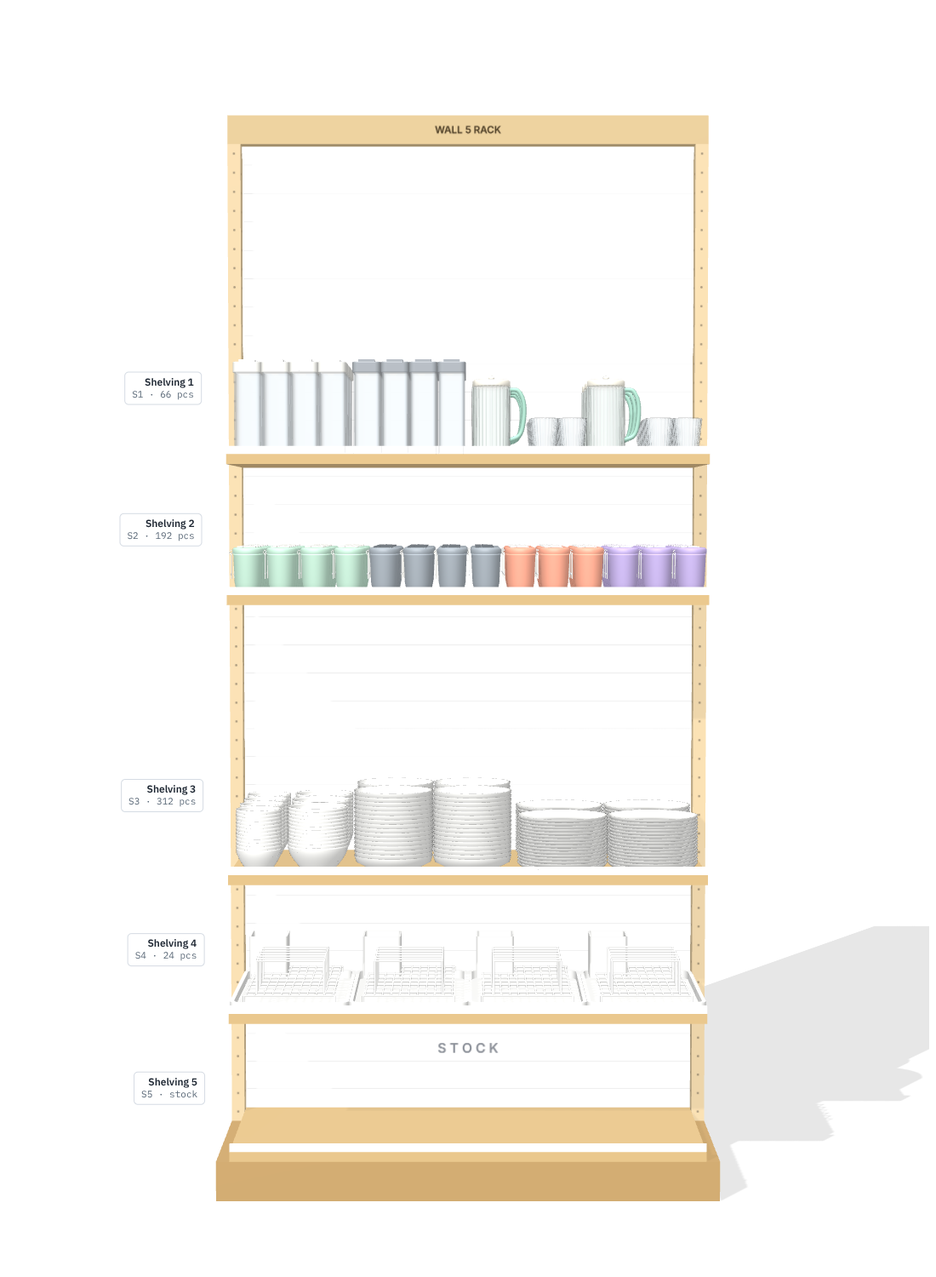
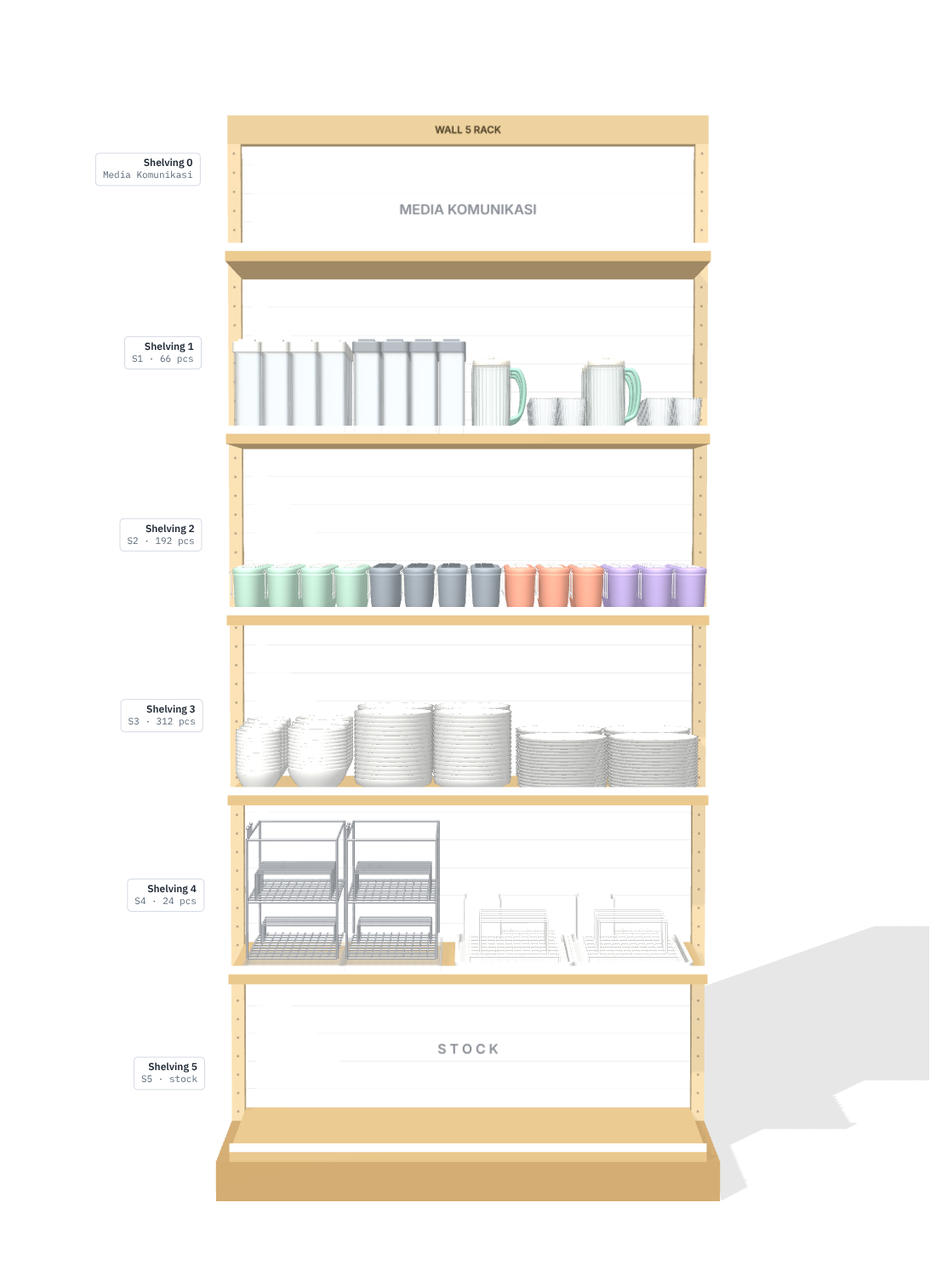
Racking preview: 6 shelving (0-5), Shelving 0 for Media Komunikasi, 45 cm pitch
Claude-Session: https://claude.ai/code/session_01AuG4t5Kp5Qon2apC5pnvrz

diff --git a/renders/makan-minum/preview_racking.html b/renders/makan-minum/preview_racking.html
@@ -81,7 +81,7 @@ body.shot .grid{display:block}body.shot .stagebox{border:0;border-radius:0}body.
     <div>
       <div class="eyebrow">Makan &amp; Minum · Dept Homeware</div>
       <h1>Preview racking Summary Accs</h1>
-      <p>Setiap SKU diletakkan di Wall sesuai posisi shelving dan qty display dari sheet. Pallet dan Dumbin belum dimasukkan. Ukuran produk dari ruparupa, ukuran rak dari layout Planogram Generator.</p>
+      <p>Setiap SKU diletakkan di Wall 6 shelving (0–5) sesuai posisi dan qty display dari sheet. Shelving 0 dikosongkan untuk Media Komunikasi. Pallet dan Dumbin belum dimasukkan. Ukuran produk dari ruparupa, ukuran rak dari layout Planogram Generator.</p>
     </div>
     <div id="tabs" role="tablist" aria-label="Pilih fixture"></div>
   </div>
@@ -303,7 +303,7 @@ function makeSku(cfg) {
 }
 
 /* ===== Preview racking: susun SKU di fixture (logika Planogram Generator) ===== */
-const DATA = {"skus":{"10587677":{"nm":"PITCHER TAVIA WHITE 1L","pr":"P1","code":"S1","cfg":{"model":"tavia","lid":"#e8e8e3"},"stack":null,"dim":null},"10587678":{"nm":"PITCHER TAVIA GRAY 1L","pr":"P1","code":"S1","cfg":{"model":"tavia","lid":"#9da3a9"},"stack":null,"dim":null},"10566440":{"nm":"PITCHER SET HALLI 1L W/4 GLASS 220ML(5)","pr":"P1","code":"S1","cfg":{"model":"halli"},"stack":null,"dim":null},"10560521":{"nm":"VACUUM FLASK KIRBY GREEN 420ML","pr":"P1","code":"S2","cfg":{"model":"kirby","body":"#b9dcc8","lid":"#b9dcc8","tab":"#f3f1e6"},"stack":null,"dim":null},"10560523":{"nm":"VACUUM FLASK KIRBY GREY 420ML","pr":"P1","code":"S2","cfg":{"model":"kirby","body":"#9aa3ab","lid":"#9aa3ab","tab":"#5f666d"},"stack":null,"dim":null},"10560524":{"nm":"VACUUM FLASK KIRBY PEACH 420ML","pr":"P1","code":"S2","cfg":{"model":"kirby","body":"#f4a58b","lid":"#f4a58b","tab":"#f6f3ec"},"stack":null,"dim":null},"10560522":{"nm":"VACUUM FLASK KIRBY PURPLE 420ML","pr":"P1","code":"S2","cfg":{"model":"kirby","body":"#bba9dc","lid":"#bba9dc","tab":"#e9e2f5"},"stack":null,"dim":null},"10554839":{"nm":"BOWL SHINE WHITE 11.5CM","pr":"P1","code":"S3","cfg":{"model":"bowl","d":11.5,"h":6.0,"color":"#f7f7f4"},"stack":{"inc":0.9,"max":12},"dim":null},"10554840":{"nm":"BOWL SHINE WHITE 15.2CM","pr":"P1","code":"S3","cfg":{"model":"bowl","d":15.2,"h":6.5,"color":"#f7f7f4"},"stack":{"inc":0.9,"max":12},"dim":null},"10554842":{"nm":"SOUP PLATE SHINE WHITE 20CM","pr":"P1","code":"S3","cfg":{"model":"plate","d":20,"h":3.7,"deep":true,"color":"#f7f7f4"},"stack":{"inc":1.1,"max":16},"dim":null},"10581181":{"nm":"DINNER PLATE SHINE WHITE 23CM","pr":"P1","code":"S3","cfg":{"model":"plate","d":23,"h":1.7,"color":"#f7f7f4"},"stack":{"inc":0.8,"max":16},"dim":null},"10137002":{"nm":"STARLIGHT DISH RACK 2 TIER TRANSPARENT","pr":"P1","code":"S4","cfg":{"model":"starlight"},"stack":null,"dim":null},"10612063":{"nm":"NEW WILLARD EXTENDABLE DISH RACK WHITE","pr":"P1","code":"S4","cfg":{"model":"willard"},"stack":null,"dim":null},"10631044":{"nm":"THERMAL BOTTLE KAY GREY 880ML","pr":"P2","code":"S1","cfg":{"model":"kay","color":"#b9b6ad"},"stack":null,"dim":null},"10631045":{"nm":"THERMAL BOTTLE KAY BLUE 880ML","pr":"P2","code":"S1","cfg":{"model":"kay","color":"#b7cde2"},"stack":null,"dim":null},"10631046":{"nm":"THERMAL BOTTLE KAY YELLOW 880ML","pr":"P2","code":"S1","cfg":{"model":"kay","color":"#f3e39b"},"stack":null,"dim":null},"10631047":{"nm":"THERMAL BOTTLE KAY PINK 880ML","pr":"P2","code":"S1","cfg":{"model":"kay","color":"#e6217f"},"stack":null,"dim":null},"10542394":{"nm":"VACUUM FLASK DARYA BLACK 500ML","pr":"P2","code":"S2","cfg":{"model":"darya","color":"#222224"},"stack":null,"dim":null},"10542395":{"nm":"VACUUM FLASK DARYA GREY 500ML","pr":"P2","code":"S2","cfg":{"model":"darya","color":"#a8adb3"},"stack":null,"dim":null},"10542396":{"nm":"VACUUM FLASK DARYA PINK 500ML","pr":"P2","code":"S2","cfg":{"model":"darya","color":"#f0cbd7"},"stack":null,"dim":null},"10568378":{"nm":"BENNET DUO FLIP CANISTER SET OF 3 700ML","pr":"P2","code":"S3","cfg":{"model":"jars","n":3,"d":8,"h":14,"L":25,"lidH":2.4,"style":"flip","lidColor":"#f4f4f2"},"stack":null,"dim":null},"10568377":{"nm":"BENNET SPIN CANISTER SET OF 3 500ML","pr":"P2","code":"S3","cfg":{"model":"jars","n":3,"d":8,"h":13.5,"L":25,"lidH":2.4,"style":"spin","lidColor":"#9edbd0"},"stack":null,"dim":null},"10565042":{"nm":"LILY GLASS JAR SET OF 3 450ML","pr":"P2","code":"S3","cfg":{"model":"jars","n":3,"d":10.4,"h":12.3,"L":32,"lidH":2.2,"style":"glass","barrel":true},"stack":null,"dim":null},"10519116":{"nm":"WILMA GLASS JAR SET OF 3","pr":"P2","code":"S4","cfg":{"model":"jars","n":3,"d":12,"h":12.2,"L":36.2,"lidH":2.2,"style":"wood","barrel":true},"stack":null,"dim":null},"10100885":{"nm":"STAR STORAGE JAR SET 3","pr":"P2","code":"S4","cfg":{"model":"jars","n":3,"d":8.8,"h":23.5,"L":27.5,"lidH":3.6,"style":"handle","lidColor":"#f2f2f0","band":"#a9b6c4"},"stack":null,"dim":null},"10497060":{"nm":"WILEY GLASS JAR SET OF 3","pr":"P2","code":"S4","cfg":{"model":"jars","n":3,"d":10.2,"h":12,"L":31,"lidH":2.2,"style":"wood","barrel":true},"stack":null,"dim":null}},"fixtures":[{"id":"wall-p1","kind":"wall","tab":"Wall 1 · P1","title":"Wall ke-1 · SKU prioritas P1","size":{"w":120,"d":50,"h":270},"zones":[35,35,70,35,35],"label":"WALL 5 RACK","shelves":[{"code":"S1","items":[{"k":"10587677","qd":30},{"k":"10587678","qd":30},{"k":"10566440","qd":6}]},{"code":"S2","items":[{"k":"10560521","qd":48},{"k":"10560523","qd":48},{"k":"10560524","qd":48},{"k":"10560522","qd":48}]},{"code":"S3","items":[{"k":"10554839","qd":96},{"k":"10554840","qd":72},{"k":"10554842","qd":72},{"k":"10581181","qd":72}]},{"code":"S4","items":[{"k":"10137002","qd":12},{"k":"10612063","qd":12}]},{"code":"S5","items":[]}]},{"id":"wall-p2","kind":"wall","tab":"Wall 2 · P2","title":"Wall ke-2 · SKU prioritas P2","size":{"w":120,"d":50,"h":270},"zones":[35,35,70,35,35],"label":"WALL 5 RACK","shelves":[{"code":"S1","items":[{"k":"10631044","qd":24},{"k":"10631045","qd":24},{"k":"10631046","qd":24},{"k":"10631047","qd":24}]},{"code":"S2","items":[{"k":"10542394","qd":48},{"k":"10542395","qd":48},{"k":"10542396","qd":48}]},{"code":"S3","items":[{"k":"10568378","qd":12},{"k":"10568377","qd":12},{"k":"10565042","qd":12}]},{"code":"S4","items":[{"k":"10519116","qd":12},{"k":"10100885","qd":12},{"k":"10497060","qd":12}]},{"code":"S5","items":[]}]}]};
+const DATA = {"skus":{"10587677":{"nm":"PITCHER TAVIA WHITE 1L","pr":"P1","code":"S1","cfg":{"model":"tavia","lid":"#e8e8e3"},"stack":null,"dim":null},"10587678":{"nm":"PITCHER TAVIA GRAY 1L","pr":"P1","code":"S1","cfg":{"model":"tavia","lid":"#9da3a9"},"stack":null,"dim":null},"10566440":{"nm":"PITCHER SET HALLI 1L W/4 GLASS 220ML(5)","pr":"P1","code":"S1","cfg":{"model":"halli"},"stack":null,"dim":null},"10560521":{"nm":"VACUUM FLASK KIRBY GREEN 420ML","pr":"P1","code":"S2","cfg":{"model":"kirby","body":"#b9dcc8","lid":"#b9dcc8","tab":"#f3f1e6"},"stack":null,"dim":null},"10560523":{"nm":"VACUUM FLASK KIRBY GREY 420ML","pr":"P1","code":"S2","cfg":{"model":"kirby","body":"#9aa3ab","lid":"#9aa3ab","tab":"#5f666d"},"stack":null,"dim":null},"10560524":{"nm":"VACUUM FLASK KIRBY PEACH 420ML","pr":"P1","code":"S2","cfg":{"model":"kirby","body":"#f4a58b","lid":"#f4a58b","tab":"#f6f3ec"},"stack":null,"dim":null},"10560522":{"nm":"VACUUM FLASK KIRBY PURPLE 420ML","pr":"P1","code":"S2","cfg":{"model":"kirby","body":"#bba9dc","lid":"#bba9dc","tab":"#e9e2f5"},"stack":null,"dim":null},"10554839":{"nm":"BOWL SHINE WHITE 11.5CM","pr":"P1","code":"S3","cfg":{"model":"bowl","d":11.5,"h":6.0,"color":"#f7f7f4"},"stack":{"inc":0.9,"max":12},"dim":null},"10554840":{"nm":"BOWL SHINE WHITE 15.2CM","pr":"P1","code":"S3","cfg":{"model":"bowl","d":15.2,"h":6.5,"color":"#f7f7f4"},"stack":{"inc":0.9,"max":12},"dim":null},"10554842":{"nm":"SOUP PLATE SHINE WHITE 20CM","pr":"P1","code":"S3","cfg":{"model":"plate","d":20,"h":3.7,"deep":true,"color":"#f7f7f4"},"stack":{"inc":1.1,"max":16},"dim":null},"10581181":{"nm":"DINNER PLATE SHINE WHITE 23CM","pr":"P1","code":"S3","cfg":{"model":"plate","d":23,"h":1.7,"color":"#f7f7f4"},"stack":{"inc":0.8,"max":16},"dim":null},"10137002":{"nm":"STARLIGHT DISH RACK 2 TIER TRANSPARENT","pr":"P1","code":"S4","cfg":{"model":"starlight"},"stack":null,"dim":null},"10612063":{"nm":"NEW WILLARD EXTENDABLE DISH RACK WHITE","pr":"P1","code":"S4","cfg":{"model":"willard"},"stack":null,"dim":null},"10631044":{"nm":"THERMAL BOTTLE KAY GREY 880ML","pr":"P2","code":"S1","cfg":{"model":"kay","color":"#b9b6ad"},"stack":null,"dim":null},"10631045":{"nm":"THERMAL BOTTLE KAY BLUE 880ML","pr":"P2","code":"S1","cfg":{"model":"kay","color":"#b7cde2"},"stack":null,"dim":null},"10631046":{"nm":"THERMAL BOTTLE KAY YELLOW 880ML","pr":"P2","code":"S1","cfg":{"model":"kay","color":"#f3e39b"},"stack":null,"dim":null},"10631047":{"nm":"THERMAL BOTTLE KAY PINK 880ML","pr":"P2","code":"S1","cfg":{"model":"kay","color":"#e6217f"},"stack":null,"dim":null},"10542394":{"nm":"VACUUM FLASK DARYA BLACK 500ML","pr":"P2","code":"S2","cfg":{"model":"darya","color":"#222224"},"stack":null,"dim":null},"10542395":{"nm":"VACUUM FLASK DARYA GREY 500ML","pr":"P2","code":"S2","cfg":{"model":"darya","color":"#a8adb3"},"stack":null,"dim":null},"10542396":{"nm":"VACUUM FLASK DARYA PINK 500ML","pr":"P2","code":"S2","cfg":{"model":"darya","color":"#f0cbd7"},"stack":null,"dim":null},"10568378":{"nm":"BENNET DUO FLIP CANISTER SET OF 3 700ML","pr":"P2","code":"S3","cfg":{"model":"jars","n":3,"d":8,"h":14,"L":25,"lidH":2.4,"style":"flip","lidColor":"#f4f4f2"},"stack":null,"dim":null},"10568377":{"nm":"BENNET SPIN CANISTER SET OF 3 500ML","pr":"P2","code":"S3","cfg":{"model":"jars","n":3,"d":8,"h":13.5,"L":25,"lidH":2.4,"style":"spin","lidColor":"#9edbd0"},"stack":null,"dim":null},"10565042":{"nm":"LILY GLASS JAR SET OF 3 450ML","pr":"P2","code":"S3","cfg":{"model":"jars","n":3,"d":10.4,"h":12.3,"L":32,"lidH":2.2,"style":"glass","barrel":true},"stack":null,"dim":null},"10519116":{"nm":"WILMA GLASS JAR SET OF 3","pr":"P2","code":"S4","cfg":{"model":"jars","n":3,"d":12,"h":12.2,"L":36.2,"lidH":2.2,"style":"wood","barrel":true},"stack":null,"dim":null},"10100885":{"nm":"STAR STORAGE JAR SET 3","pr":"P2","code":"S4","cfg":{"model":"jars","n":3,"d":8.8,"h":23.5,"L":27.5,"lidH":3.6,"style":"handle","lidColor":"#f2f2f0","band":"#a9b6c4"},"stack":null,"dim":null},"10497060":{"nm":"WILEY GLASS JAR SET OF 3","pr":"P2","code":"S4","cfg":{"model":"jars","n":3,"d":10.2,"h":12,"L":31,"lidH":2.2,"style":"wood","barrel":true},"stack":null,"dim":null}},"fixtures":[{"id":"wall-p1","kind":"wall","tab":"Wall 1 · P1","title":"Wall ke-1 · SKU prioritas P1","size":{"w":120,"d":50,"h":270},"zones":[45,45,45,45,45,45],"label":"WALL 5 RACK","shelves":[{"code":"S0","media":true,"items":[]},{"code":"S1","media":false,"items":[{"k":"10587677","qd":30},{"k":"10587678","qd":30},{"k":"10566440","qd":6}]},{"code":"S2","media":false,"items":[{"k":"10560521","qd":48},{"k":"10560523","qd":48},{"k":"10560524","qd":48},{"k":"10560522","qd":48}]},{"code":"S3","media":false,"items":[{"k":"10554839","qd":96},{"k":"10554840","qd":72},{"k":"10554842","qd":72},{"k":"10581181","qd":72}]},{"code":"S4","media":false,"items":[{"k":"10137002","qd":12},{"k":"10612063","qd":12}]},{"code":"S5","media":false,"items":[]}]},{"id":"wall-p2","kind":"wall","tab":"Wall 2 · P2","title":"Wall ke-2 · SKU prioritas P2","size":{"w":120,"d":50,"h":270},"zones":[45,45,45,45,45,45],"label":"WALL 5 RACK","shelves":[{"code":"S0","media":true,"items":[]},{"code":"S1","media":false,"items":[{"k":"10631044","qd":24},{"k":"10631045","qd":24},{"k":"10631046","qd":24},{"k":"10631047","qd":24}]},{"code":"S2","media":false,"items":[{"k":"10542394","qd":48},{"k":"10542395","qd":48},{"k":"10542396","qd":48}]},{"code":"S3","media":false,"items":[{"k":"10568378","qd":12},{"k":"10568377","qd":12},{"k":"10565042","qd":12}]},{"code":"S4","media":false,"items":[{"k":"10519116","qd":12},{"k":"10100885","qd":12},{"k":"10497060","qd":12}]},{"code":"S5","media":false,"items":[]}]}]};
 setClearMode('lite');
 
 const $ = s => document.querySelector(s);
@@ -386,7 +386,7 @@ function packShelf(sh, W, D, C) {
 /* ---------- membangun fixture ---------- */
 let group = null, cur = 0, labels = [];
 function buildWall(fx, g) {
-  const { w: W, d: D, h: H } = fx.size, UP = 3.4, hs = fx.zones, sum = hs.reduce((a, b) => a + b, 0), topBlank = H - BASE - sum;
+  const { w: W, d: D, h: H } = fx.size, UP = 3.4, hs = fx.zones, sum = hs.reduce((a, b) => a + b, 0);
   g.add(box(W + UP * 2, BASE, D, std(ASH.base), 0, BASE / 2, 0));
   const groove = canvasTex(8, 75, (c, w, h) => { c.fillStyle = '#fff'; c.fillRect(0, 0, w, h); c.fillStyle = 'rgba(0,0,0,.14)'; c.fillRect(0, h - 3, w, 3); }, [1, (H - BASE) / 7.5]);
   g.add(box(W, H - BASE, 1.2, new THREE.MeshStandardMaterial({ color: 0xffffff, map: groove, roughness: 0.9 }), 0, BASE + (H - BASE) / 2, -D / 2 + 0.6));
@@ -425,8 +425,8 @@ function place(fx, geo, g) {
         for (let u = 0; u < units; u++) { const c = TPL[r.k].piv.clone(true); c.position.set(x, band.top + u * (r.inc || 0), z); if (r.rot) c.rotation.y = Math.PI / 2; c.traverse(o => { if (o.isMesh) { o.castShadow = true; o.receiveShadow = true; } }); g.add(c); }
       }
     });
-    if (fx.kind === 'wall' && !sh.items.length) { const p = textPlane('S T O C K', 60, 7, 'rgba(40,50,66,.55)'); p.position.set(0, band.top + band.clear / 2, -geo.D / 2 + 1.3); g.add(p); }
-    reps.push({ code: sh.code, band, rep, used, qty: sh.items.reduce((a, b) => a + b.qd, 0) });
+    if (fx.kind === 'wall' && !sh.items.length) { const p = textPlane(sh.media ? 'MEDIA KOMUNIKASI' : 'S T O C K', sh.media ? 80 : 60, 7, 'rgba(40,50,66,.55)'); p.position.set(0, band.top + Math.min(band.clear, 32) / 2, -geo.D / 2 + 1.3); g.add(p); }
+    reps.push({ code: sh.code, media: !!sh.media, band, rep, used, qty: sh.items.reduce((a, b) => a + b.qd, 0) });
   });
   return reps;
 }
@@ -466,7 +466,7 @@ function show(i) {
   labelsEl.innerHTML = ''; labels = [];
   repsCur.forEach((r, si) => {
     const el = document.createElement('div'); el.className = 'lab'; const pl = r.rep.reduce((a, b) => a + b.placed, 0);
-    el.innerHTML = fx.kind === 'wall' ? `<b>Shelving ${si + 1}</b><span>${r.code} · ${r.qty ? nf(r.qty) + ' pcs' : 'stock'}</span>` : `<b>${esc(fx.label)}</b><span>${r.code} · ${nf(r.qty)} pcs</span>`;
+    el.innerHTML = fx.kind === 'wall' ? `<b>Shelving ${si}</b><span>${r.media ? 'Media Komunikasi' : r.code + ' · ' + (r.qty ? nf(r.qty) + ' pcs' : 'stock')}</span>` : `<b>${esc(fx.label)}</b><span>${r.code} · ${nf(r.qty)} pcs</span>`;
     labelsEl.appendChild(el);
     labels.push({ el, pos: new THREE.Vector3(-geoCur.W / 2 - (fx.kind === 'wall' ? 6 : 4), r.band.top + Math.min(r.band.clear, 40) / 2, geoCur.D / 2) });
   });
@@ -478,11 +478,11 @@ const STATUS = { muat: ['Muat', 'ok'], sebagian: ['Sebagian', 'warn'], tinggi: [
 function renderPanel(fx) {
   const tot = repsCur.reduce((a, r) => a + r.qty, 0), pl = repsCur.reduce((a, r) => a + r.rep.reduce((x, y) => x + y.placed, 0), 0);
   $('#sum').innerHTML = `<div><span>Rencana qty</span><b>${nf(tot)}</b><i>pcs</i></div><div><span>Muat di rak</span><b>${nf(pl)}</b><i>pcs</i></div><div><span>Terisi</span><b>${tot ? Math.round(pl / tot * 100) : 0}%</b><i>dari rencana</i></div>`;
-  $('#ttl').textContent = fx.title; $('#dim').textContent = `${fx.size.w} × ${fx.size.d} × ${fx.size.h} cm` + (fx.kind === 'wall' ? ' · tinggi shelving 35 / 35 / 70 / 35 / 35 cm' : '');
+  $('#ttl').textContent = fx.title; $('#dim').textContent = `${fx.size.w} × ${fx.size.d} × ${fx.size.h} cm` + (fx.kind === 'wall' ? ' · 6 shelving (0–5) · jarak antarshelving 45 cm' : '');
   $('#shelves').innerHTML = repsCur.map((r, si) => {
     const p = r.rep.reduce((a, b) => a + b.placed, 0), pct = r.qty ? Math.round(p / r.qty * 100) : 0;
-    const head = fx.kind === 'wall' ? `Shelving ${si + 1} <i>${r.code}</i>` : `Pallet <i>${r.code}</i>`;
-    if (!r.rep.length) return `<section class="sh"><header><h3>${head}</h3><span class="mut">Kosong · area STOCK</span></header></section>`;
+    const head = fx.kind === 'wall' ? `Shelving ${si} <i>${r.code}</i>` : `Pallet <i>${r.code}</i>`;
+    if (!r.rep.length) return `<section class="sh"><header><h3>${head}</h3><span class="mut">${r.media ? 'Kosong · Media Komunikasi' : 'Kosong · area STOCK'}</span></header></section>`;
     return `<section class="sh"><header><h3>${head}</h3><span class="mut">${nf(p)} / ${nf(r.qty)} pcs</span></header>
       <div class="bar" role="img" aria-label="Terisi ${pct}%"><u style="width:${pct}%"></u></div>
       <p class="clr">Tinggi bebas ${r.band.clear.toFixed(1)} cm · lebar terpakai ${r.used.toFixed(0)} dari ${geoCur.W} cm</p>

diff --git a/.claude/skills/3d-summary/scripts/viewer.js b/.claude/skills/3d-summary/scripts/viewer.js
@@ -82,7 +82,7 @@ function packShelf(sh, W, D, C) {
 /* ---------- membangun fixture ---------- */
 let group = null, cur = 0, labels = [];
 function buildWall(fx, g) {
-  const { w: W, d: D, h: H } = fx.size, UP = 3.4, hs = fx.zones, sum = hs.reduce((a, b) => a + b, 0), topBlank = H - BASE - sum;
+  const { w: W, d: D, h: H } = fx.size, UP = 3.4, hs = fx.zones, sum = hs.reduce((a, b) => a + b, 0);
   g.add(box(W + UP * 2, BASE, D, std(ASH.base), 0, BASE / 2, 0));
   const groove = canvasTex(8, 75, (c, w, h) => { c.fillStyle = '#fff'; c.fillRect(0, 0, w, h); c.fillStyle = 'rgba(0,0,0,.14)'; c.fillRect(0, h - 3, w, 3); }, [1, (H - BASE) / 7.5]);
   g.add(box(W, H - BASE, 1.2, new THREE.MeshStandardMaterial({ color: 0xffffff, map: groove, roughness: 0.9 }), 0, BASE + (H - BASE) / 2, -D / 2 + 0.6));
@@ -121,8 +121,8 @@ function place(fx, geo, g) {
         for (let u = 0; u < units; u++) { const c = TPL[r.k].piv.clone(true); c.position.set(x, band.top + u * (r.inc || 0), z); if (r.rot) c.rotation.y = Math.PI / 2; c.traverse(o => { if (o.isMesh) { o.castShadow = true; o.receiveShadow = true; } }); g.add(c); }
       }
     });
-    if (fx.kind === 'wall' && !sh.items.length) { const p = textPlane('S T O C K', 60, 7, 'rgba(40,50,66,.55)'); p.position.set(0, band.top + band.clear / 2, -geo.D / 2 + 1.3); g.add(p); }
-    reps.push({ code: sh.code, band, rep, used, qty: sh.items.reduce((a, b) => a + b.qd, 0) });
+    if (fx.kind === 'wall' && !sh.items.length) { const p = textPlane(sh.media ? 'MEDIA KOMUNIKASI' : 'S T O C K', sh.media ? 80 : 60, 7, 'rgba(40,50,66,.55)'); p.position.set(0, band.top + Math.min(band.clear, 32) / 2, -geo.D / 2 + 1.3); g.add(p); }
+    reps.push({ code: sh.code, media: !!sh.media, band, rep, used, qty: sh.items.reduce((a, b) => a + b.qd, 0) });
   });
   return reps;
 }
@@ -162,7 +162,7 @@ function show(i) {
   labelsEl.innerHTML = ''; labels = [];
   repsCur.forEach((r, si) => {
     const el = document.createElement('div'); el.className = 'lab'; const pl = r.rep.reduce((a, b) => a + b.placed, 0);
-    el.innerHTML = fx.kind === 'wall' ? `<b>Shelving ${si + 1}</b><span>${r.code} · ${r.qty ? nf(r.qty) + ' pcs' : 'stock'}</span>` : `<b>${esc(fx.label)}</b><span>${r.code} · ${nf(r.qty)} pcs</span>`;
+    el.innerHTML = fx.kind === 'wall' ? `<b>Shelving ${si}</b><span>${r.media ? 'Media Komunikasi' : r.code + ' · ' + (r.qty ? nf(r.qty) + ' pcs' : 'stock')}</span>` : `<b>${esc(fx.label)}</b><span>${r.code} · ${nf(r.qty)} pcs</span>`;
     labelsEl.appendChild(el);
     labels.push({ el, pos: new THREE.Vector3(-geoCur.W / 2 - (fx.kind === 'wall' ? 6 : 4), r.band.top + Math.min(r.band.clear, 40) / 2, geoCur.D / 2) });
   });
@@ -174,11 +174,11 @@ const STATUS = { muat: ['Muat', 'ok'], sebagian: ['Sebagian', 'warn'], tinggi: [
 function renderPanel(fx) {
   const tot = repsCur.reduce((a, r) => a + r.qty, 0), pl = repsCur.reduce((a, r) => a + r.rep.reduce((x, y) => x + y.placed, 0), 0);
   $('#sum').innerHTML = `<div><span>Rencana qty</span><b>${nf(tot)}</b><i>pcs</i></div><div><span>Muat di rak</span><b>${nf(pl)}</b><i>pcs</i></div><div><span>Terisi</span><b>${tot ? Math.round(pl / tot * 100) : 0}%</b><i>dari rencana</i></div>`;
-  $('#ttl').textContent = fx.title; $('#dim').textContent = `${fx.size.w} × ${fx.size.d} × ${fx.size.h} cm` + (fx.kind === 'wall' ? ' · tinggi shelving 35 / 35 / 70 / 35 / 35 cm' : '');
+  $('#ttl').textContent = fx.title; $('#dim').textContent = `${fx.size.w} × ${fx.size.d} × ${fx.size.h} cm` + (fx.kind === 'wall' ? ' · 6 shelving (0–5) · jarak antarshelving 45 cm' : '');
   $('#shelves').innerHTML = repsCur.map((r, si) => {
     const p = r.rep.reduce((a, b) => a + b.placed, 0), pct = r.qty ? Math.round(p / r.qty * 100) : 0;
-    const head = fx.kind === 'wall' ? `Shelving ${si + 1} <i>${r.code}</i>` : `Pallet <i>${r.code}</i>`;
-    if (!r.rep.length) return `<section class="sh"><header><h3>${head}</h3><span class="mut">Kosong · area STOCK</span></header></section>`;
+    const head = fx.kind === 'wall' ? `Shelving ${si} <i>${r.code}</i>` : `Pallet <i>${r.code}</i>`;
+    if (!r.rep.length) return `<section class="sh"><header><h3>${head}</h3><span class="mut">${r.media ? 'Kosong · Media Komunikasi' : 'Kosong · area STOCK'}</span></header></section>`;
     return `<section class="sh"><header><h3>${head}</h3><span class="mut">${nf(p)} / ${nf(r.qty)} pcs</span></header>
       <div class="bar" role="img" aria-label="Terisi ${pct}%"><u style="width:${pct}%"></u></div>
       <p class="clr">Tinggi bebas ${r.band.clear.toFixed(1)} cm · lebar terpakai ${r.used.toFixed(0)} dari ${geoCur.W} cm</p>

diff --git a/renders/tools/viewer.js b/renders/tools/viewer.js
@@ -82,7 +82,7 @@ function packShelf(sh, W, D, C) {
 /* ---------- membangun fixture ---------- */
 let group = null, cur = 0, labels = [];
 function buildWall(fx, g) {
-  const { w: W, d: D, h: H } = fx.size, UP = 3.4, hs = fx.zones, sum = hs.reduce((a, b) => a + b, 0), topBlank = H - BASE - sum;
+  const { w: W, d: D, h: H } = fx.size, UP = 3.4, hs = fx.zones, sum = hs.reduce((a, b) => a + b, 0);
   g.add(box(W + UP * 2, BASE, D, std(ASH.base), 0, BASE / 2, 0));
   const groove = canvasTex(8, 75, (c, w, h) => { c.fillStyle = '#fff'; c.fillRect(0, 0, w, h); c.fillStyle = 'rgba(0,0,0,.14)'; c.fillRect(0, h - 3, w, 3); }, [1, (H - BASE) / 7.5]);
   g.add(box(W, H - BASE, 1.2, new THREE.MeshStandardMaterial({ color: 0xffffff, map: groove, roughness: 0.9 }), 0, BASE + (H - BASE) / 2, -D / 2 + 0.6));
@@ -121,8 +121,8 @@ function place(fx, geo, g) {
         for (let u = 0; u < units; u++) { const c = TPL[r.k].piv.clone(true); c.position.set(x, band.top + u * (r.inc || 0), z); if (r.rot) c.rotation.y = Math.PI / 2; c.traverse(o => { if (o.isMesh) { o.castShadow = true; o.receiveShadow = true; } }); g.add(c); }
       }
     });
-    if (fx.kind === 'wall' && !sh.items.length) { const p = textPlane('S T O C K', 60, 7, 'rgba(40,50,66,.55)'); p.position.set(0, band.top + band.clear / 2, -geo.D / 2 + 1.3); g.add(p); }
-    reps.push({ code: sh.code, band, rep, used, qty: sh.items.reduce((a, b) => a + b.qd, 0) });
+    if (fx.kind === 'wall' && !sh.items.length) { const p = textPlane(sh.media ? 'MEDIA KOMUNIKASI' : 'S T O C K', sh.media ? 80 : 60, 7, 'rgba(40,50,66,.55)'); p.position.set(0, band.top + Math.min(band.clear, 32) / 2, -geo.D / 2 + 1.3); g.add(p); }
+    reps.push({ code: sh.code, media: !!sh.media, band, rep, used, qty: sh.items.reduce((a, b) => a + b.qd, 0) });
   });
   return reps;
 }
@@ -162,7 +162,7 @@ function show(i) {
   labelsEl.innerHTML = ''; labels = [];
   repsCur.forEach((r, si) => {
     const el = document.createElement('div'); el.className = 'lab'; const pl = r.rep.reduce((a, b) => a + b.placed, 0);
-    el.innerHTML = fx.kind === 'wall' ? `<b>Shelving ${si + 1}</b><span>${r.code} · ${r.qty ? nf(r.qty) + ' pcs' : 'stock'}</span>` : `<b>${esc(fx.label)}</b><span>${r.code} · ${nf(r.qty)} pcs</span>`;
+    el.innerHTML = fx.kind === 'wall' ? `<b>Shelving ${si}</b><span>${r.media ? 'Media Komunikasi' : r.code + ' · ' + (r.qty ? nf(r.qty) + ' pcs' : 'stock')}</span>` : `<b>${esc(fx.label)}</b><span>${r.code} · ${nf(r.qty)} pcs</span>`;
     labelsEl.appendChild(el);
     labels.push({ el, pos: new THREE.Vector3(-geoCur.W / 2 - (fx.kind === 'wall' ? 6 : 4), r.band.top + Math.min(r.band.clear, 40) / 2, geoCur.D / 2) });
   });
@@ -174,11 +174,11 @@ const STATUS = { muat: ['Muat', 'ok'], sebagian: ['Sebagian', 'warn'], tinggi: [
 function renderPanel(fx) {
   const tot = repsCur.reduce((a, r) => a + r.qty, 0), pl = repsCur.reduce((a, r) => a + r.rep.reduce((x, y) => x + y.placed, 0), 0);
   $('#sum').innerHTML = `<div><span>Rencana qty</span><b>${nf(tot)}</b><i>pcs</i></div><div><span>Muat di rak</span><b>${nf(pl)}</b><i>pcs</i></div><div><span>Terisi</span><b>${tot ? Math.round(pl / tot * 100) : 0}%</b><i>dari rencana</i></div>`;
-  $('#ttl').textContent = fx.title; $('#dim').textContent = `${fx.size.w} × ${fx.size.d} × ${fx.size.h} cm` + (fx.kind === 'wall' ? ' · tinggi shelving 35 / 35 / 70 / 35 / 35 cm' : '');
+  $('#ttl').textContent = fx.title; $('#dim').textContent = `${fx.size.w} × ${fx.size.d} × ${fx.size.h} cm` + (fx.kind === 'wall' ? ' · 6 shelving (0–5) · jarak antarshelving 45 cm' : '');
   $('#shelves').innerHTML = repsCur.map((r, si) => {
     const p = r.rep.reduce((a, b) => a + b.placed, 0), pct = r.qty ? Math.round(p / r.qty * 100) : 0;
-    const head = fx.kind === 'wall' ? `Shelving ${si + 1} <i>${r.code}</i>` : `Pallet <i>${r.code}</i>`;
-    if (!r.rep.length) return `<section class="sh"><header><h3>${head}</h3><span class="mut">Kosong · area STOCK</span></header></section>`;
+    const head = fx.kind === 'wall' ? `Shelving ${si} <i>${r.code}</i>` : `Pallet <i>${r.code}</i>`;
+    if (!r.rep.length) return `<section class="sh"><header><h3>${head}</h3><span class="mut">${r.media ? 'Kosong · Media Komunikasi' : 'Kosong · area STOCK'}</span></header></section>`;
     return `<section class="sh"><header><h3>${head}</h3><span class="mut">${nf(p)} / ${nf(r.qty)} pcs</span></header>
       <div class="bar" role="img" aria-label="Terisi ${pct}%"><u style="width:${pct}%"></u></div>
       <p class="clr">Tinggi bebas ${r.band.clear.toFixed(1)} cm · lebar terpakai ${r.used.toFixed(0)} dari ${geoCur.W} cm</p>

diff --git a/.claude/skills/3d-summary/scripts/template.html b/.claude/skills/3d-summary/scripts/template.html
@@ -79,7 +79,7 @@ body.shot .grid{display:block}body.shot .stagebox{border:0;border-radius:0}body.
     <div>
       <div class="eyebrow">Makan &amp; Minum · Dept Homeware</div>
       <h1>Preview racking Summary Accs</h1>
-      <p>Setiap SKU diletakkan di Wall sesuai posisi shelving dan qty display dari sheet. Pallet dan Dumbin belum dimasukkan. Ukuran produk dari ruparupa, ukuran rak dari layout Planogram Generator.</p>
+      <p>Setiap SKU diletakkan di Wall 6 shelving (0–5) sesuai posisi dan qty display dari sheet. Shelving 0 dikosongkan untuk Media Komunikasi. Pallet dan Dumbin belum dimasukkan. Ukuran produk dari ruparupa, ukuran rak dari layout Planogram Generator.</p>
     </div>
     <div id="tabs" role="tablist" aria-label="Pilih fixture"></div>
   </div>

diff --git a/renders/tools/template.html b/renders/tools/template.html
@@ -79,7 +79,7 @@ body.shot .grid{display:block}body.shot .stagebox{border:0;border-radius:0}body.
     <div>
       <div class="eyebrow">Makan &amp; Minum · Dept Homeware</div>
       <h1>Preview racking Summary Accs</h1>
-      <p>Setiap SKU diletakkan di Wall sesuai posisi shelving dan qty display dari sheet. Pallet dan Dumbin belum dimasukkan. Ukuran produk dari ruparupa, ukuran rak dari layout Planogram Generator.</p>
+      <p>Setiap SKU diletakkan di Wall 6 shelving (0–5) sesuai posisi dan qty display dari sheet. Shelving 0 dikosongkan untuk Media Komunikasi. Pallet dan Dumbin belum dimasukkan. Ukuran produk dari ruparupa, ukuran rak dari layout Planogram Generator.</p>
     </div>
     <div id="tabs" role="tablist" aria-label="Pilih fixture"></div>
   </div>

diff --git a/.claude/skills/3d-summary/scripts/build_data.py b/.claude/skills/3d-summary/scripts/build_data.py
@@ -13,13 +13,13 @@ def shelves(fx,pr,codes,kind):
     out=[]
     for c in codes:
         its=[a for a in arts if a['fx']==fx and a['pr']==pr and a['code']==c]
-        out.append({'code':c,'items':[{'k':a['k'],'qd':int(a['qd'])} for a in its]})
+        out.append({'code':c,'media':c=='S0','items':[{'k':a['k'],'qd':int(a['qd'])} for a in its]})
     return out
 fixtures=[
- {'id':'wall-p1','kind':'wall','tab':'Wall 1 · P1','title':'Wall ke-1 · SKU prioritas P1','size':{'w':120,'d':50,'h':270},'zones':[35,35,70,35,35],'label':'WALL 5 RACK',
-  'shelves':shelves('WALL','P1',['S1','S2','S3','S4','S5'],'wall')},
- {'id':'wall-p2','kind':'wall','tab':'Wall 2 · P2','title':'Wall ke-2 · SKU prioritas P2','size':{'w':120,'d':50,'h':270},'zones':[35,35,70,35,35],'label':'WALL 5 RACK',
-  'shelves':shelves('WALL','P2',['S1','S2','S3','S4','S5'],'wall')},
+ {'id':'wall-p1','kind':'wall','tab':'Wall 1 · P1','title':'Wall ke-1 · SKU prioritas P1','size':{'w':120,'d':50,'h':270},'zones':[45,45,45,45,45,45],'label':'WALL 5 RACK',
+  'shelves':shelves('WALL','P1',['S0','S1','S2','S3','S4','S5'],'wall')},
+ {'id':'wall-p2','kind':'wall','tab':'Wall 2 · P2','title':'Wall ke-2 · SKU prioritas P2','size':{'w':120,'d':50,'h':270},'zones':[45,45,45,45,45,45],'label':'WALL 5 RACK',
+  'shelves':shelves('WALL','P2',['S0','S1','S2','S3','S4','S5'],'wall')},
  {'id':'pallet-1','kind':'pallet','tab':'Pallet 1 · P1','title':'Pallet ke-1 · SKU prioritas P1','size':{'w':90,'d':90,'h':100},'zones':[100],'label':'PALLET 90x90',
   'shelves':shelves('PALLET','P1',['PLT1'],'pallet')},
  {'id':'pallet-2','kind':'pallet','tab':'Pallet 2 · P2','title':'Pallet ke-2 · SKU prioritas P2','size':{'w':90,'d':90,'h':100},'zones':[100],'label':'PALLET 90x90',

diff --git a/renders/tools/build_data.py b/renders/tools/build_data.py
@@ -13,13 +13,13 @@ def shelves(fx,pr,codes,kind):
     out=[]
     for c in codes:
         its=[a for a in arts if a['fx']==fx and a['pr']==pr and a['code']==c]
-        out.append({'code':c,'items':[{'k':a['k'],'qd':int(a['qd'])} for a in its]})
+        out.append({'code':c,'media':c=='S0','items':[{'k':a['k'],'qd':int(a['qd'])} for a in its]})
     return out
 fixtures=[
- {'id':'wall-p1','kind':'wall','tab':'Wall 1 · P1','title':'Wall ke-1 · SKU prioritas P1','size':{'w':120,'d':50,'h':270},'zones':[35,35,70,35,35],'label':'WALL 5 RACK',
-  'shelves':shelves('WALL','P1',['S1','S2','S3','S4','S5'],'wall')},
- {'id':'wall-p2','kind':'wall','tab':'Wall 2 · P2','title':'Wall ke-2 · SKU prioritas P2','size':{'w':120,'d':50,'h':270},'zones':[35,35,70,35,35],'label':'WALL 5 RACK',
-  'shelves':shelves('WALL','P2',['S1','S2','S3','S4','S5'],'wall')},
+ {'id':'wall-p1','kind':'wall','tab':'Wall 1 · P1','title':'Wall ke-1 · SKU prioritas P1','size':{'w':120,'d':50,'h':270},'zones':[45,45,45,45,45,45],'label':'WALL 5 RACK',
+  'shelves':shelves('WALL','P1',['S0','S1','S2','S3','S4','S5'],'wall')},
+ {'id':'wall-p2','kind':'wall','tab':'Wall 2 · P2','title':'Wall ke-2 · SKU prioritas P2','size':{'w':120,'d':50,'h':270},'zones':[45,45,45,45,45,45],'label':'WALL 5 RACK',
+  'shelves':shelves('WALL','P2',['S0','S1','S2','S3','S4','S5'],'wall')},
  {'id':'pallet-1','kind':'pallet','tab':'Pallet 1 · P1','title':'Pallet ke-1 · SKU prioritas P1','size':{'w':90,'d':90,'h':100},'zones':[100],'label':'PALLET 90x90',
   'shelves':shelves('PALLET','P1',['PLT1'],'pallet')},
  {'id':'pallet-2','kind':'pallet','tab':'Pallet 2 · P2','title':'Pallet ke-2 · SKU prioritas P2','size':{'w':90,'d':90,'h':100},'zones':[100],'label':'PALLET 90x90',

diff --git a/.claude/skills/3d-summary/SKILL.md b/.claude/skills/3d-summary/SKILL.md
@@ -18,9 +18,9 @@ Status terakhir: grup **MAKAN & MINUM** selesai (31 SKU, Wall P1 dan P2). Grup T
 |---|---|
 | Daftar SKU, grup, fixture, kode posisi (S1–S5, PLT1–3), prioritas, qty display | Drive: folder `_Summary Accs` → `2_FOLDER_DATA_DRIVE` → **Dashboard.html** (id `1DSZ05boMvBHzmRVI-txuKgmnMHimrF4x`). Data ada di `const D = {...}` (field `arts`). Sheet aslinya (`List Item Summary Accessories`) terlalu besar untuk diekspor lewat Drive. |
 | Dimensi dan foto produk | `https://www.ruparupa.com/p/<SKU>` (data di `__NEXT_DATA__`). Foto: `cdn.ruparupa.io/.../Products/<SKU>_1.jpg` |
-| Layout rak | Logika `planogram.html` di repo: Wall 5 Rack = zona `R1 R1 R2 R1 R1`, 1 satuan = 35 cm, BASE 10 cm, Wall 120×50×270. Panel belakang **diputihkan** (di preview saja; `planogram.html` tidak diubah). |
+| Layout rak | Bahan/gaya dari `planogram.html` (ash, upright berlubang, papan + lip putih), Wall 120×50×270, BASE 10 cm. **6 shelving bernomor 0–5**, jarak antar papan **45 cm** mulai dari bawah (papan bawah di atas plinth 10 cm). Shelving 0 (paling atas) **kosong untuk Media Komunikasi**; S1–S5 di sheet = Shelving 1–5. Panel belakang **diputihkan** (di preview saja; `planogram.html` tidak diubah). |
 
-Matriks: Makan & Minum memakai S1–S4 di Wall (S5 kosong = STOCK). Fixture pertama grup diisi SKU **P1**, fixture kedua **P2**. Shelving ke-1 paling atas.
+Matriks: Makan & Minum memakai S1–S4 di Wall (S0 = Media Komunikasi, S5 kosong = STOCK). Fixture pertama grup diisi SKU **P1**, fixture kedua **P2**. Shelving 0 paling atas, 5 paling bawah.
 
 ## Persiapan environment (cloud)
 
@@ -38,7 +38,7 @@ Matriks: Makan & Minum memakai S1–S4 di Wall (S5 kosong = STOCK). Fixture pert
 
 ## Aturan susun racking (viewer.js `packShelf`)
 
-- Per shelving: lebar 120 cm, kedalaman 50 cm (dikurangi lip 1 cm), tinggi bebas = tinggi zona − 2,5 cm papan.
+- Per shelving: lebar 120 cm, kedalaman 50 cm (dikurangi lip 1 cm), tinggi bebas = 45 − 2,5 = 42,5 cm (jarak antar papan dikurangi tebal papan).
 - SKU diisi kiri→kanan sesuai urutan sheet; deret ke belakang sampai kedalaman habis; boleh diputar 90° bila menghemat lebar (set toples).
 - Piring/mangkuk/gelas boleh ditumpuk (`stack.inc` = tambahan tinggi per unit, `max` = batas), selebihnya 1 lapis.
 - SKU lebih tinggi dari zona → tidak dirender, status "Terlalu tinggi". Lebar habis → "Tidak muat".
@@ -50,7 +50,7 @@ Matriks: Makan & Minum memakai S1–S4 di Wall (S5 kosong = STOCK). Fixture pert
 - **Darya 500 ml**: ruparupa 8,2×8,8×25 cm; terlihat lebih gemuk dari foto, kemungkinan ukuran kemasan, tapi angka ruparupa tetap dipakai.
 - **Gelas di set Halli**: dimensi tidak ada → diasumsikan dia atas 7 × tinggi 9 cm.
 - Mug Arvid berwarna "Random" di ruparupa → dipakai abu-abu seri Arvid Grey.
-- Temuan: qty display di sheet **tidak muat** di Wall berukuran asli (mis. Wall P2 hanya 54%); Starlight Dish Rack (36,5 cm) lebih tinggi dari shelving (32,5 cm). Laporkan ini ke pengguna.
+- Temuan: qty display di sheet **tidak muat** di Wall berukuran asli (mis. Wall P2 hanya 54%); Laporkan ini ke pengguna. (Dengan jarak lama 35 cm, Starlight Dish Rack 36,5 cm tidak muat; dengan 45 cm muat.)
 - Bahan transparan memakai mode "lite" (opacity) di scene racking supaya ringan; render per SKU memakai transmission penuh.
 - Screenshot headless (SwiftShader) lambat untuk scene dengan banyak objek transparan: beri `timeout` besar di `goto` dan `screenshot`.
 - Keluaran lama ada di `renders/makan-minum/` (PNG per SKU, `_manifest.csv`, `racking/`, `preview_racking.html`).
